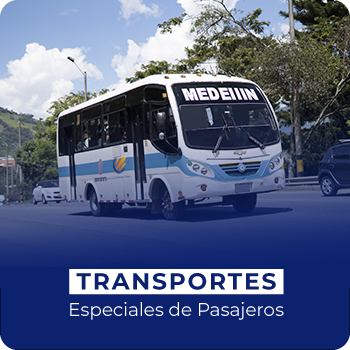
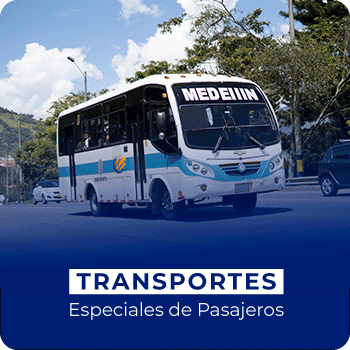
add new images

diff --git a/src/components/Home/Slider.jsx b/src/components/Home/Slider.jsx
@@ -9,7 +9,7 @@ export const Slider = () => {
 				<Carousel.Item>
 					<img
 						className={styled.imgNormal}
-						src='/slider/primera.jpg'
+						src='/slider/primera.png'
 						alt=''
 					/>
 					<img
